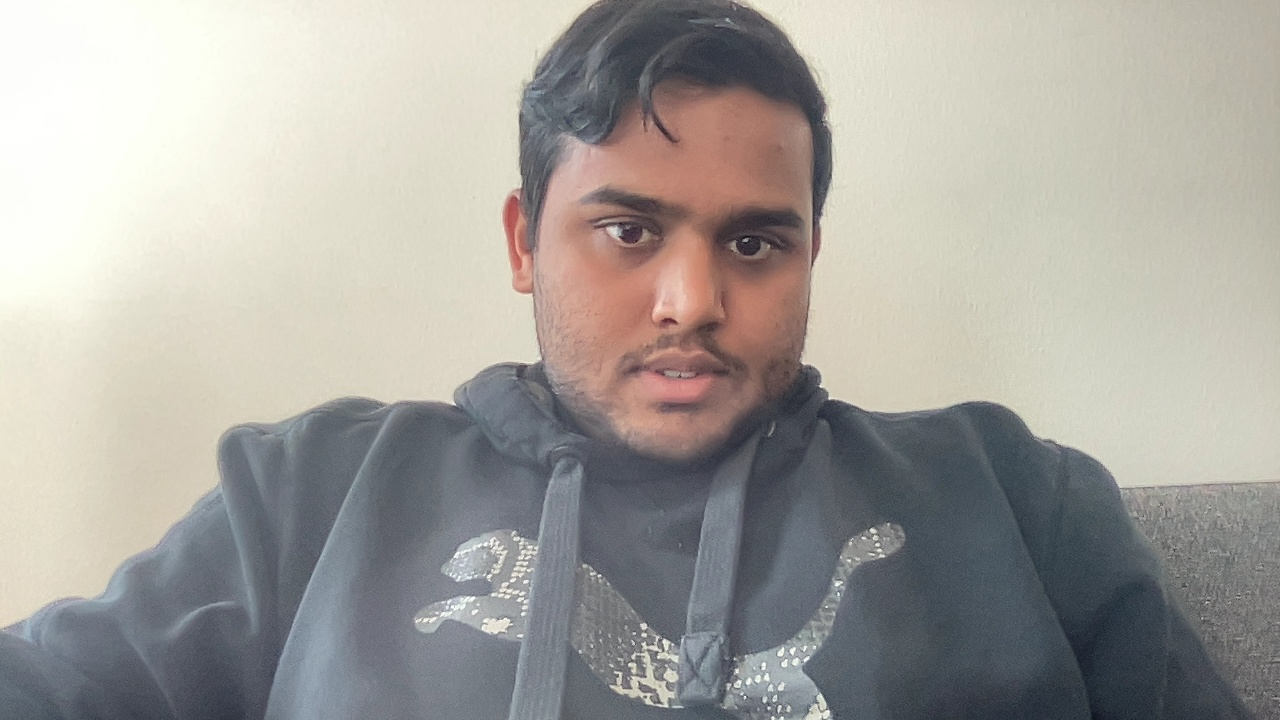
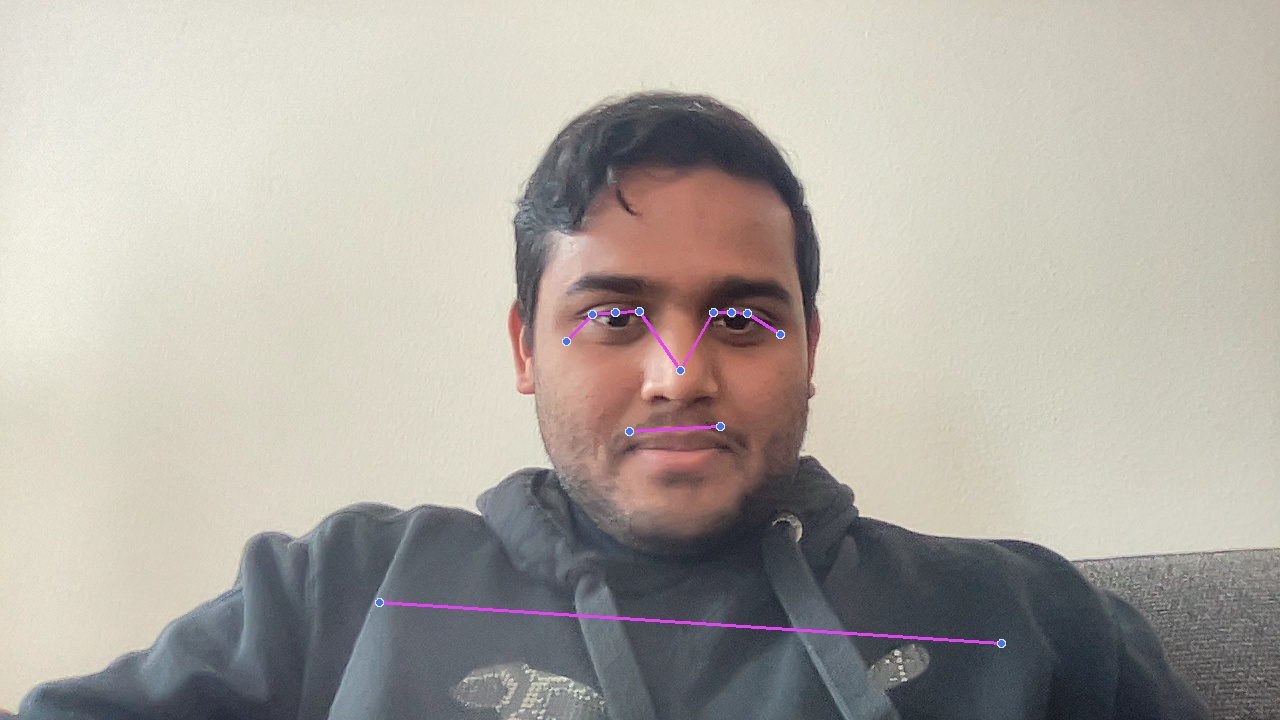
included pose tracker video

diff --git a/routes.py b/routes.py
@@ -1,17 +1,49 @@
 from flask.templating import render_template
 from flask import session, request, redirect, url_for, flash, Flask, render_template, render_template_string, Response
 from app import app
+# from src.utils.get_data import *
+import mediapipe as mp
 import json
 import cv2
 
-video_capture = cv2.VideoCapture(0)
 
-def gen():    
-    while True:
-        ret, image = video_capture.read()
-        cv2.imwrite('t.jpg', image)
-        yield (b'--frame\r\n'
-           b'Content-Type: image/jpeg\r\n\r\n' + open('t.jpg', 'rb').read() + b'\r\n')
+def track_video():
+
+    mp_drawing = mp.solutions.drawing_utils
+    mp_pose = mp.solutions.pose
+
+    cap = cv2.VideoCapture(0)
+
+    ## Setup mediapipe instance
+    with mp_pose.Pose(min_detection_confidence=0.5, min_tracking_confidence=0.5) as pose:
+        while cap.isOpened():
+            ret, frame = cap.read()
+            
+            # Recolor image to RGB
+            image = cv2.cvtColor(frame, cv2.COLOR_BGR2RGB)
+            image.flags.writeable = False
+            
+            # Make detection
+            results = pose.process(image)
+
+            # Recolor back to BGR
+            image.flags.writeable = True
+            image = cv2.cvtColor(image, cv2.COLOR_RGB2BGR)
+            
+            # Render detections
+            mp_drawing.draw_landmarks(image, results.pose_landmarks, mp_pose.POSE_CONNECTIONS,
+                                    mp_drawing.DrawingSpec(color=(245,117,66), thickness=2, circle_radius=2), 
+                                    mp_drawing.DrawingSpec(color=(245,66,230), thickness=2, circle_radius=2) 
+                                        )               
+            
+            cv2.imwrite('t.jpg', image)
+
+            yield (b'--frame\r\n' b'Content-Type: image/jpeg\r\n\r\n' + open('t.jpg', 'rb').read() + b'\r\n')
+            if cv2.waitKey(1) & 0xFF == ord('q'):
+                break
+            
+    cap.release()
+    cv2.destroyAllWindows()
     video_capture.release()
 
 @app.route("/")
@@ -31,4 +63,4 @@ def iposture_tracking():
 @app.route('/video_feed')
 def video_feed():
     """Video streaming route. Put this in the src attribute of an img tag."""
-    return Response(gen(), mimetype='multipart/x-mixed-replace; boundary=frame')
+    return Response(track_video(), mimetype='multipart/x-mixed-replace; boundary=frame')
